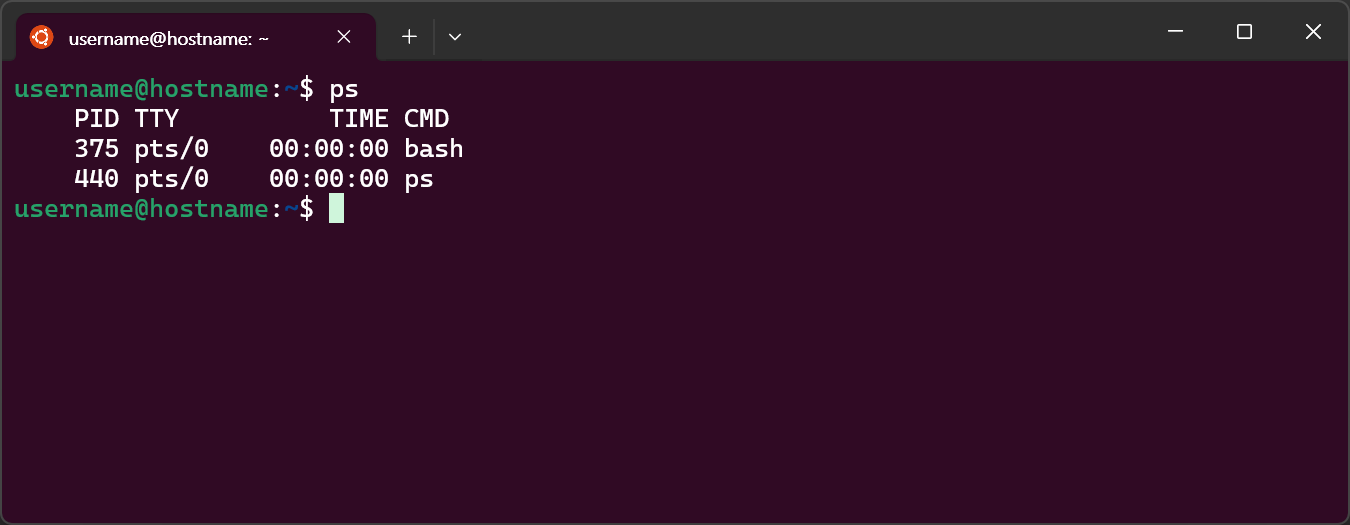
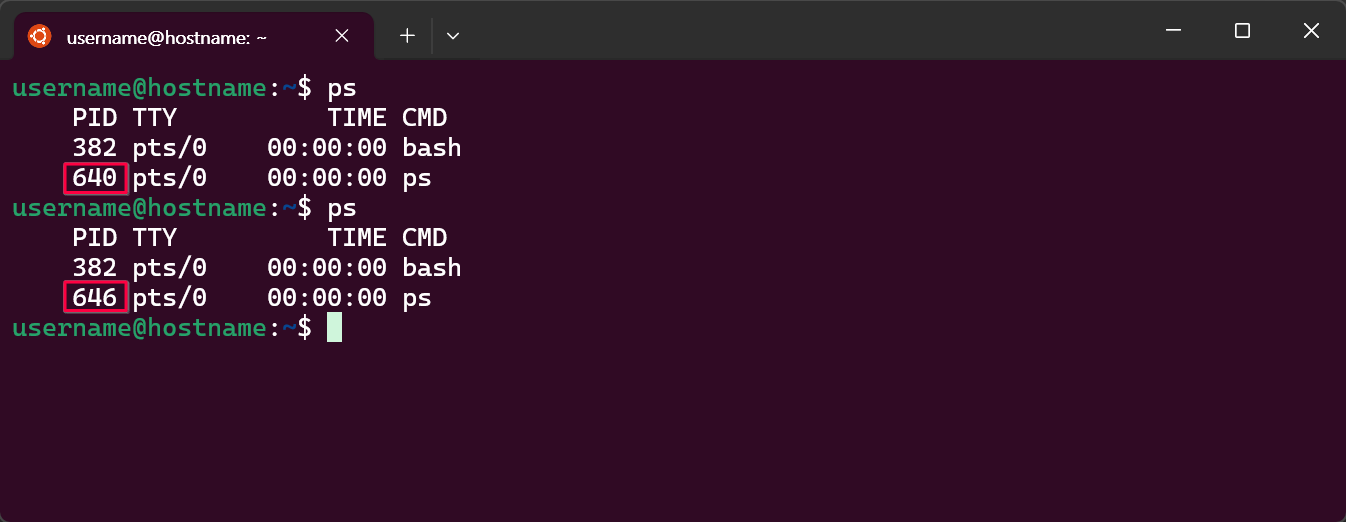
Update Image
- Change `ps` command screenshot
- Add comment

diff --git a/week12/README.md b/week12/README.md
@@ -290,6 +290,8 @@ https://github.com/seoftbh/24-1_SysProg/blob/76e84fc74b2958409a3831e26ff6ac392c0
 ### `ps` - 프로세스 상태 출력
 - 현재 존재하는 프로세스들의 실행 상태를 요약해서 출력
 ![alt text](./md/image-3.png)
+> - PID는 운영체제가 부여함
+> - 동일한 명령(프로그램)임에도 실행 마다 PID가 달라진 모습
 
 ### `sleep`
 - 지정된 시간만큼 실행을 중지시킴
